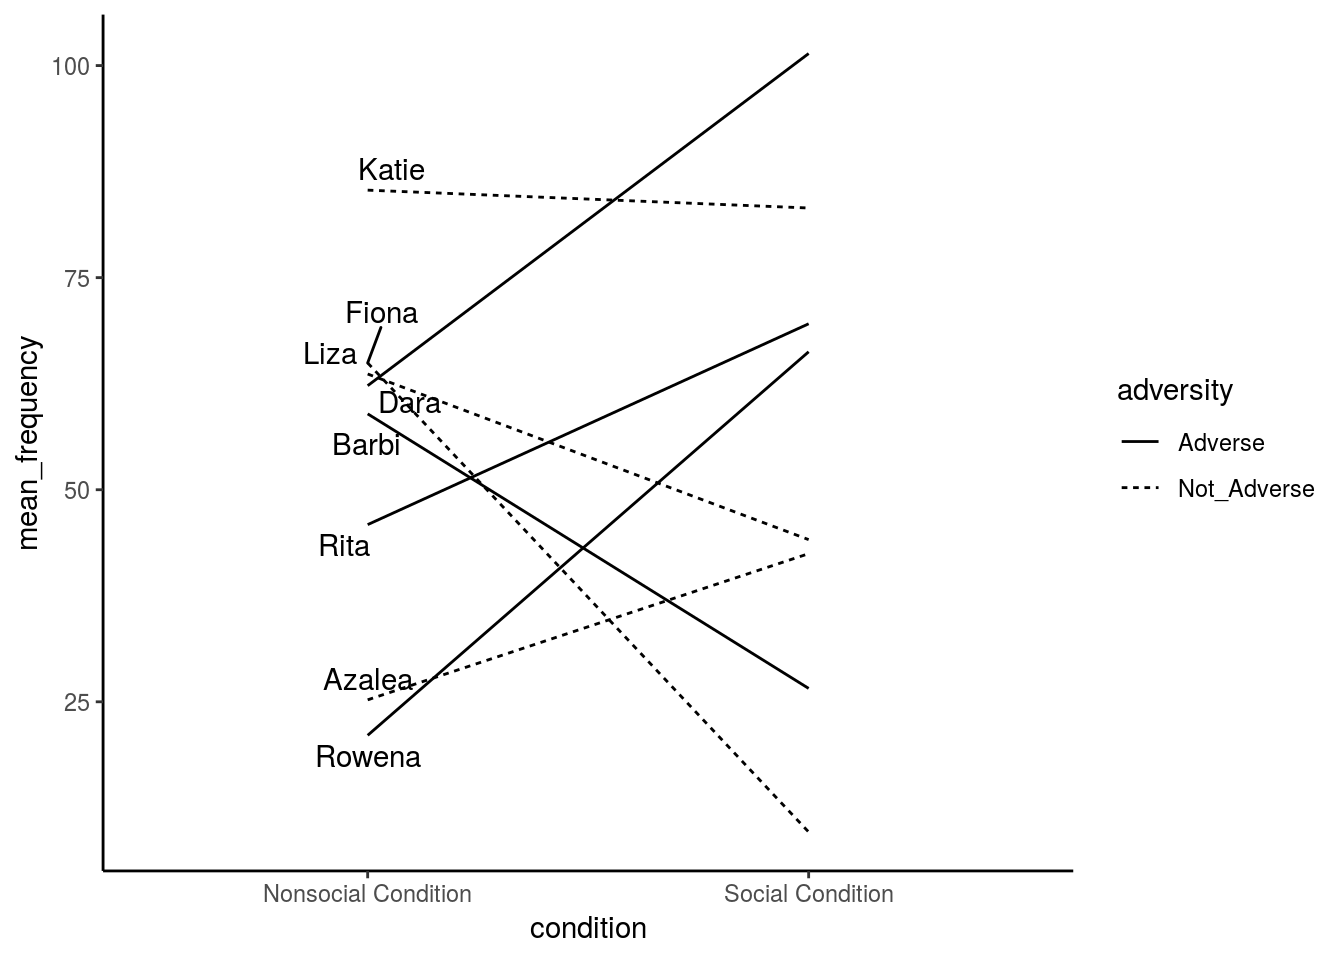
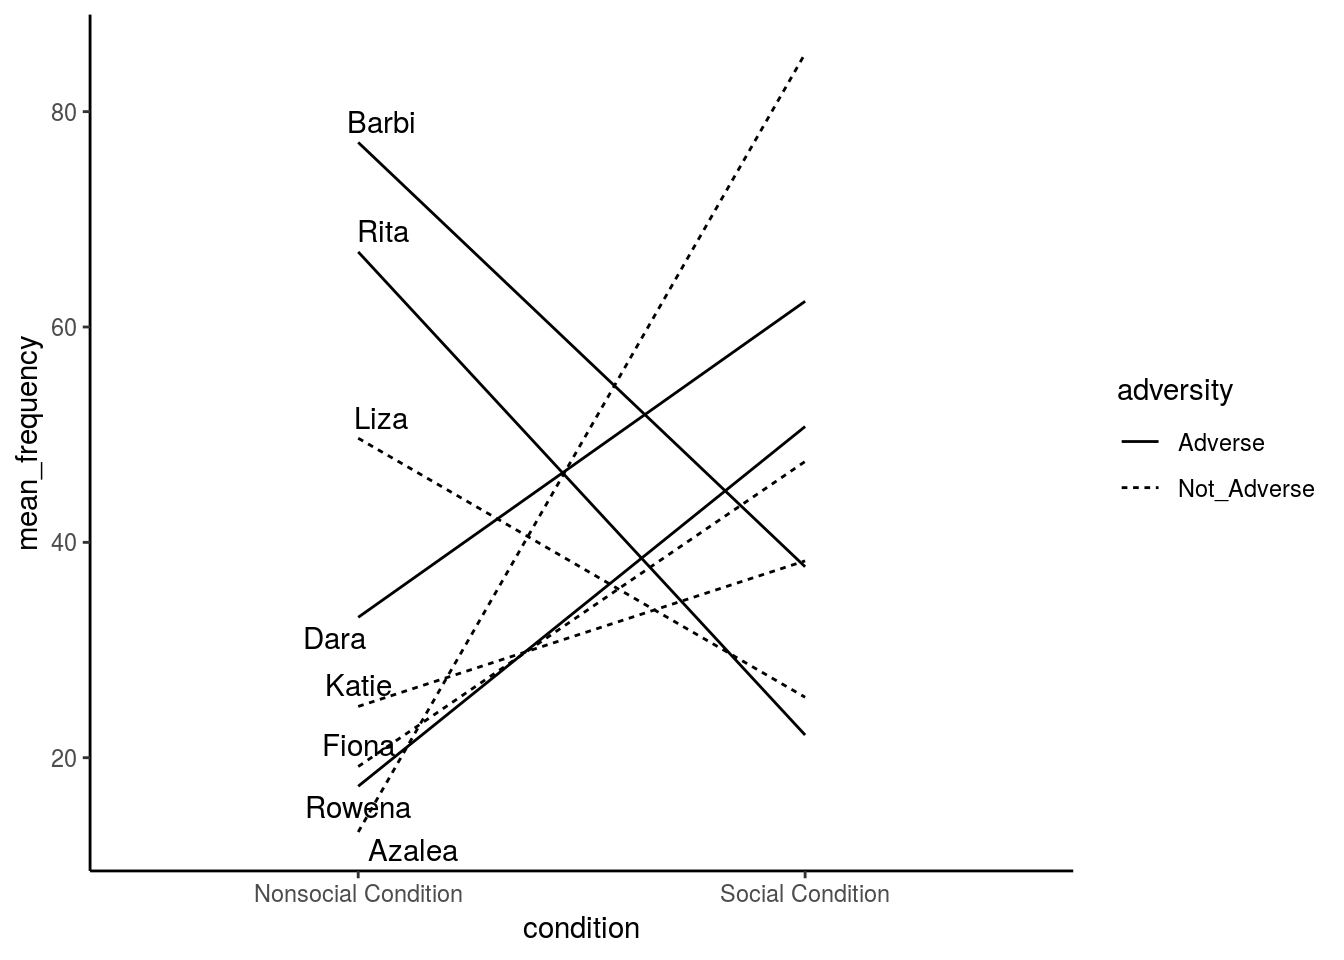
Added tick marks, scaled correctly

diff --git a/docs/Plots.html b/docs/Plots.html
@@ -452,10 +452,10 @@ ad_avg_soc&lt;-c(0,12,48,4,41,48,33,57,59)
 plot_da&lt;-data.frame(avg_nonsoc,avg_soc)
 plot_db&lt;-data.frame(ad_avg_nonsoc,ad_avg_soc)
 
-c&lt;-ggplot(plot_da)+geom_line(mapping = aes(avg_nonsoc,avg_soc))+geom_point(data =plot_db ,x=ad_avg_nonsoc,y=ad_avg_soc, size=1)+theme_classic()
+c&lt;-ggplot(plot_da)+geom_line(mapping = aes(avg_nonsoc,avg_soc))+geom_point(data =plot_db ,x=ad_avg_nonsoc,y=ad_avg_soc, size=1)+theme_classic()+coord_cartesian(xlim = c(0,70),ylim = c(0,70))
 
 
-c+labs(x=&quot;Average Frequency of Nonsocial Risk&quot;,y=&quot;Average Frequency of Social Risk&quot;)+scale_y_continuous(limits = c(0,70))</code></pre>
+c+labs(x=&quot;Average Frequency of Nonsocial Risk&quot;,y=&quot;Average Frequency of Social Risk&quot;)+scale_x_continuous(expand = c(0,0),breaks = pretty(0:70,n=7))+scale_y_continuous(expand = c(0,0),breaks = pretty(0:70,n=7))</code></pre>
 <p><img src="Plots_files/figure-html/unnamed-chunk-4-1.png" width="672" /></p>
 </div>
 </div>
